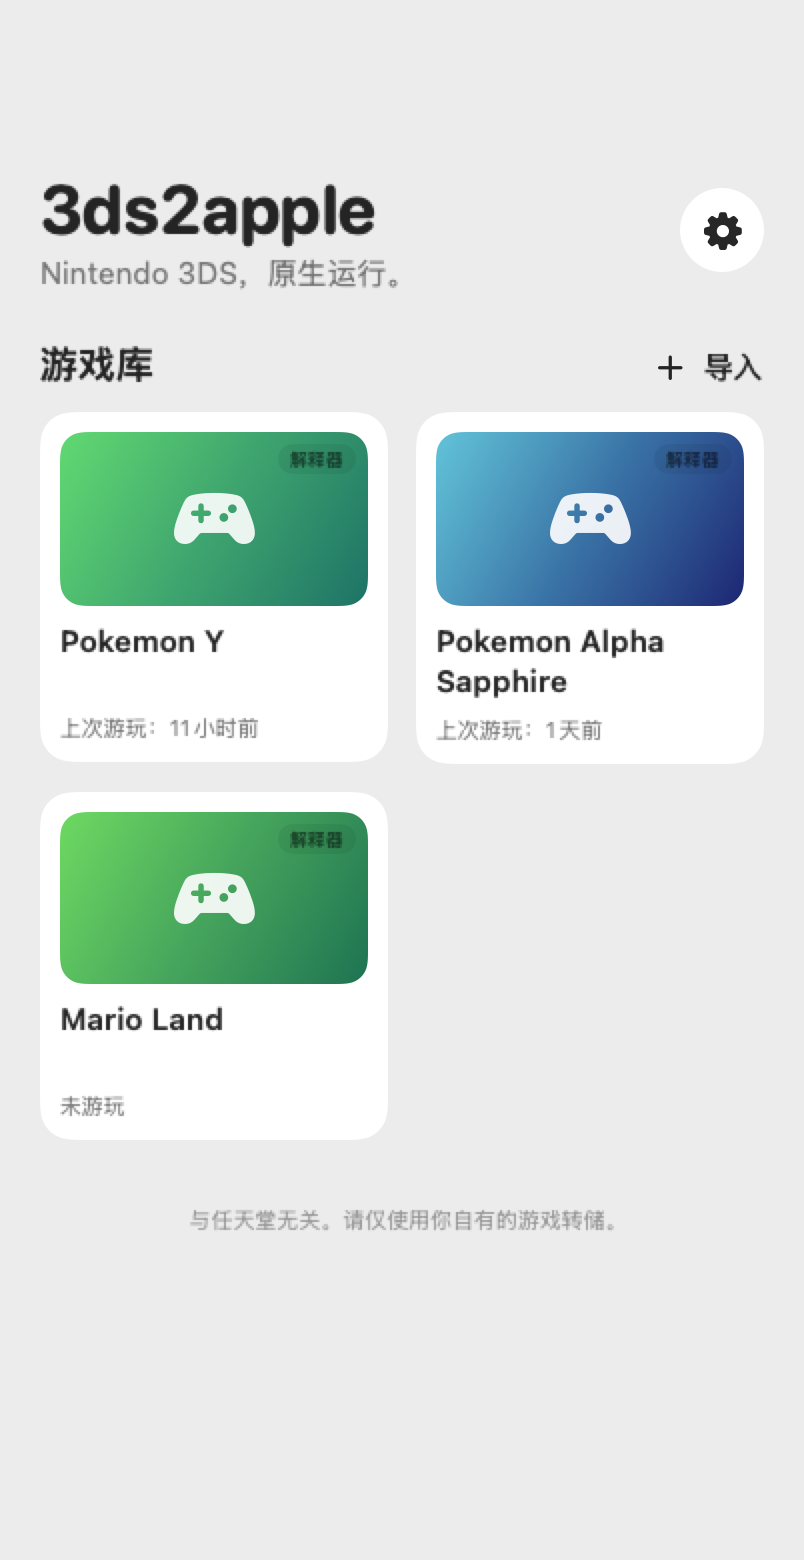
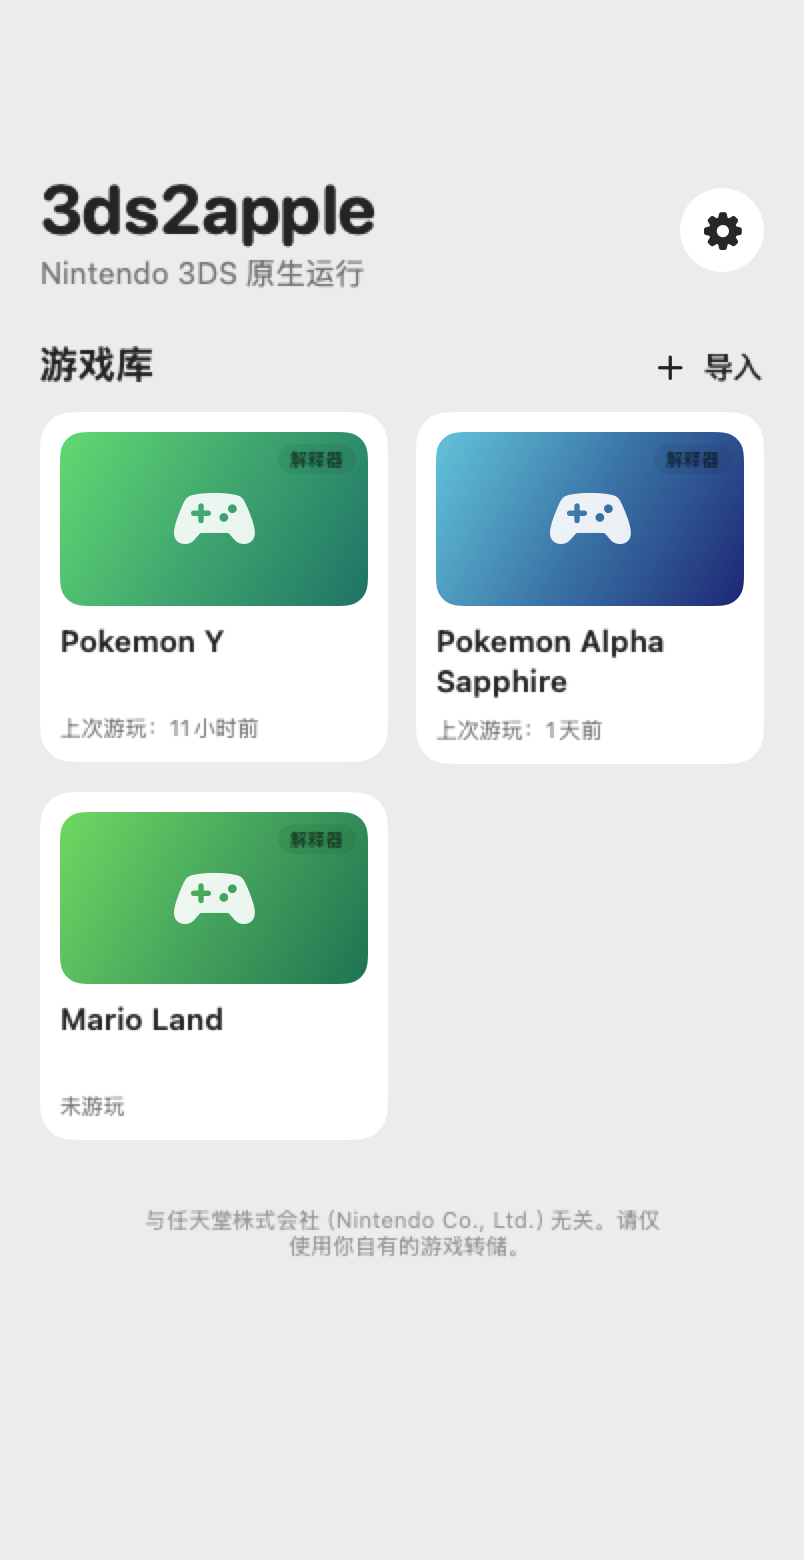
docs: publish v0.1.5-beta2 screenshots and release notes

Changed region(s): [[0.1866, 0.7692, 0.8085, 0.8308], [0.3109, 0.1538, 0.4975, 0.1846]]

diff --git a/ios/app/Sources/GameView.swift b/ios/app/Sources/GameView.swift
@@ -220,10 +220,11 @@ struct GameView: View {
             }
 
             if isLoaded && !isMenuPresented {
+                // Bottom centre: the top corners belong to L/R and the top middle
+                // to Select/Start, so the pause button stays clear of all of them.
                 pauseButton(size: 36)
-                    .frame(maxWidth: .infinity, maxHeight: .infinity, alignment: .topTrailing)
-                    .padding(.top, 12)
-                    .padding(.trailing, 16)
+                    .frame(maxWidth: .infinity, maxHeight: .infinity, alignment: .bottom)
+                    .padding(.bottom, 16)
             }
         }
         .ignoresSafeArea(edges: [.horizontal])

diff --git a/ios/app/Sources/StorageInspector.swift b/ios/app/Sources/StorageInspector.swift
@@ -32,7 +32,8 @@ struct StorageSnapshot {
     var totalBytes: UInt64 { romBytes + saveDataBytes + logBytes + cacheBytes }
 
     static func sizeText(_ bytes: UInt64) -> String {
-        ByteCountFormatter.string(fromByteCount: Int64(bytes), countStyle: .file)
+        // ByteCountFormatter renders 0 as "Zero KB", which reads like a bug.
+        bytes == 0 ? "0 KB" : ByteCountFormatter.string(fromByteCount: Int64(bytes), countStyle: .file)
     }
 
     var totalText: String { Self.sizeText(totalBytes) }

diff --git a/README.md b/README.md
@@ -8,16 +8,16 @@ Game code is translated from ARM to C at build time by [3dsrecomp](https://githu
 
 Platform: iPhone / iPad (iOS 16+) · Build: macOS + Xcode · Install: Sideloadly / SideStore / AltStore sideload · License: Apache-2.0 · **Bring your own game**
 
-> **Latest shell build: v0.1.5-beta1 (2026-11-14)** — [GitHub Release](https://github.com/HFYKratos/3ds2apple/releases/tag/v0.1.5-beta1)
+> **Latest shell build: v0.1.5-beta2 (2026-11-14)** — [GitHub Release](https://github.com/HFYKratos/3ds2apple/releases/tag/v0.1.5-beta2)
 >
-> UI polish: Saves / Diagnostics / About moved into Settings, the disclaimer is centered, every Settings hint sits inline under its control, and the game screen is redesigned with a rounded stage, a title/pause bar and glass touch controls.
-> 界面打磨：存档/诊断/关于移入设置，免责声明居中；设置项提示统一放在控件下方；游戏画面重设计为圆角画面舞台、标题/暂停栏和玻璃质感触摸按键。
+> UI polish: the disclaimer uses the formal Nintendo name, Settings hints are unified and the buffer-size row fixed, About and Save Manager are card pages, and landscape now runs edge-to-edge with controls floating over the picture (hiding them no longer moves it).
+> 界面打磨：免责声明使用任天堂正式名称；设置项提示统一并修正缓冲区大小排布；关于与存档管理改为卡片页面；横屏画面铺满、按键悬浮，隐藏按键不再移动画面。
 
 **Status: early development.** The shell imports your own ROMs, keeps a multi-game library and runs them through the interpreter; a per-game AOT build (compiled locally from your own ROM) is what reaches near-60 fps. Compatibility, stability and the number of supported games are still being verified.
 
 ## Try the shell build
 
-`3ds2apple-shell-0.1.5-beta1.ipa` in the v0.1.5-beta1 GitHub Release is a **universal shell without game data**:
+`3ds2apple-shell-0.1.5-beta2.ipa` in the v0.1.5-beta2 GitHub Release is a **universal shell without game data**:
 
 - import one or more of your own decrypted `.3ds` / `.cci` / `.cia` files; they are copied into the app and kept in a persistent game library;
 - it contains **no** per-game AOT code, so games run through the Zakuro interpreter and are noticeably slower than an AOT build;

diff --git a/README.zh-CN.md b/README.zh-CN.md
@@ -8,16 +8,16 @@
 
 平台：iPhone / iPad（iOS 16+） · 构建：macOS + Xcode · 安装：Sideloadly / SideStore / AltStore 侧载 · 许可：Apache-2.0 · **自带游戏**
 
-> **当前 shell 版本：v0.1.5-beta1（2026-11-14）** — [GitHub Release](https://github.com/HFYKratos/3ds2apple/releases/tag/v0.1.5-beta1)
+> **当前 shell 版本：v0.1.5-beta2（2026-11-14）** — [GitHub Release](https://github.com/HFYKratos/3ds2apple/releases/tag/v0.1.5-beta2)
 >
-> 界面打磨：存档/诊断/关于移入设置，免责声明居中；设置项提示统一放在控件下方；游戏画面重设计为圆角画面舞台、标题/暂停栏和玻璃质感触摸按键。
-> UI polish: Saves / Diagnostics / About moved into Settings, the disclaimer is centered, every Settings hint sits inline under its control, and the game screen is redesigned with a rounded stage, a title/pause bar and glass touch controls.
+> 界面打磨：免责声明使用任天堂正式名称；设置项提示统一并修正缓冲区大小排布；关于与存档管理改为卡片页面；横屏画面铺满、按键悬浮，隐藏按键不再移动画面。
+> UI polish: the disclaimer uses the formal Nintendo name, Settings hints are unified and the buffer-size row fixed, About and Save Manager are card pages, and landscape now runs edge-to-edge with controls floating over the picture (hiding them no longer moves it).
 
 **状态：早期开发。** shell 可以导入你自己的 ROM、维护多游戏库并通过解释器运行；要达到接近 60fps 需要在自己 Mac 上用自有 ROM 构建 per-game AOT 版本。兼容性、稳定性和支持的游戏数量仍在验证中。
 
 ## 试用 shell 构建
 
-v0.1.5-beta1 GitHub Release 里的 `3ds2apple-shell-0.1.5-beta1.ipa` 是**无游戏数据的通用壳**：
+v0.1.5-beta2 GitHub Release 里的 `3ds2apple-shell-0.1.5-beta2.ipa` 是**无游戏数据的通用壳**：
 
 - 可以一次导入多个你自己已解密的 `.3ds` / `.cci` / `.cia`，文件复制进 App 并持久保存在游戏库中；
 - 它**不包含**任何 per-game AOT 代码，游戏由 Zakuro 解释器运行，速度会明显低于 AOT 版本；

diff --git a/docs/qa/ui/README.md b/docs/qa/ui/README.md
@@ -18,4 +18,4 @@ ZKPREVIEW_SHOT_DIR=/tmp/ui-shots "$APP/Contents/MacOS/3ds2apple-preview"
 ZKPREVIEW_SHOT_DIR=/tmp/ui-shots-zh "$APP/Contents/MacOS/3ds2apple-preview" -AppleLanguages "(zh-Hans)"
 ```
 
-The images here were taken for v0.1.5-beta1 (2026-11-14); `game-en.png` shows the redesigned game screen chrome (no console is started, so the screens show the waiting placeholder).
+The images here were taken for v0.1.5-beta2 (2026-11-14); `game-en.png`/`game-landscape-en.png` show the redesigned game screen chrome (no console is started, so the screens show the waiting placeholder). `about-*.png`, `savemanager-*.png`, `quick-*.png` and `ingame-*.png` cover the card pages and the in-game menu; Chinese counterparts use the `-zh` suffix.
